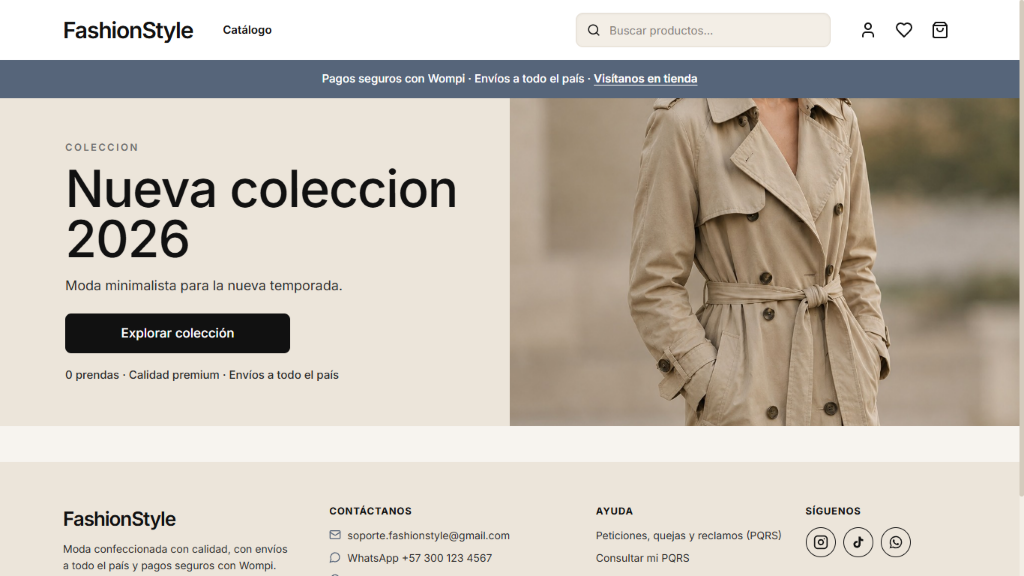
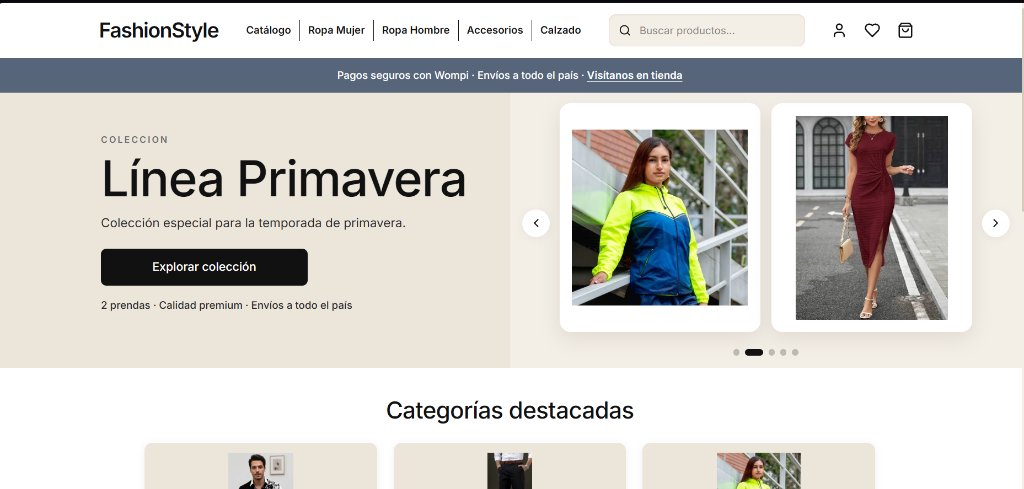
Actualizar captura de app móvil, página principal e integrar enlace en vivo de Fashion Style

diff --git a/index.html b/index.html
@@ -118,6 +118,10 @@
         <p class="section-desc">
           Proyecto integral de software en el que <strong>estoy trabajando actualmente</strong> para gestionar la operación de una empresa de confección y tienda de ropa: escaparate virtual, punto de venta físico (POS), producción por lista de materiales (BOM), inventario/kárdex, facturación, pagos con Wompi y aplicación móvil Android conectados en tiempo real.
         </p>
+        <div class="project-live-bar">
+          <a href="https://fashionstylegrupo3.github.io/FashionStyleDist/" target="_blank" rel="noopener noreferrer" class="btn btn-primary btn-sm">Abrir Página Web en Vivo ↗</a>
+          <a href="https://github.com/tzun95168-star/FashionStyle" target="_blank" rel="noopener noreferrer" class="btn btn-secondary btn-sm">Ver Código del Proyecto (GitHub)</a>
+        </div>
       </div>
 
       <!-- Architecture Tabs -->
@@ -150,6 +154,9 @@
             <span class="tech-pill">Bootstrap</span>
             <span class="tech-pill">Axios</span>
             <span class="tech-pill">Chart.js</span>
+          </div>
+          <div style="margin-top:16px;">
+            <a href="https://fashionstylegrupo3.github.io/FashionStyleDist/" target="_blank" rel="noopener noreferrer" class="btn btn-primary btn-sm">Visitar Tienda Fashion Style en Vivo ↗</a>
           </div>
         </div>
         <div class="panel-preview" data-lightbox="./assets/img/fs_dashboard.png" data-caption="Panel Administrativo Fashion Style (en desarrollo activo) — KPIs en vivo, ventas POS/Web y exportación Excel/PDF">
@@ -212,9 +219,9 @@
             <span class="tech-pill">APK Android</span>
           </div>
         </div>
-        <div class="panel-preview" data-lightbox="./assets/img/fs_facturacion.png" data-caption="Facturación Automática Omnicanal — Trazabilidad unificada de ventas POS y pedidos online con descarga PDF">
-          <img src="./assets/img/fs_facturacion.png" alt="Facturación omnicanal Fashion Style" />
-          <div class="panel-preview-caption">Clic para ampliar · Facturación Omnicanal (Pedidos Online + Ventas POS)</div>
+        <div class="panel-preview panel-preview--mobile" data-lightbox="./assets/img/fs_app_movil.png?v=2" data-caption="Aplicación Móvil Android Fashion Style (Flutter 3 + Dart) — Escaparate Neo-Atelier, colecciones, categorías y prendas destacadas">
+          <img src="./assets/img/fs_app_movil.png?v=2" alt="Aplicación Móvil Android Fashion Style" />
+          <div class="panel-preview-caption">Clic para ampliar · App Móvil Android (Flutter 3 + Dart)</div>
         </div>
       </div>
 
@@ -254,11 +261,19 @@
         </div>
 
         <div class="gallery-grid">
-          <div class="gallery-card" data-lightbox="./assets/img/fs_landing.png" data-caption="Escaparate E-Commerce Fashion Style — Diseño editorial minimalista, búsqueda y navegación de colecciones">
-            <img src="./assets/img/fs_landing.png" alt="Landing Page Fashion Style" />
+          <div class="gallery-card" data-lightbox="./assets/img/fs_landing.png?v=2" data-caption="Página Principal Fashion Style — Colecciones de temporada, buscador, categorías destacadas y pagos con Wompi">
+            <img src="./assets/img/fs_landing.png?v=2" alt="Página Principal Fashion Style" />
             <div class="gallery-card-meta">
-              <strong>Tienda Virtual (Landing)</strong>
-              <span>Escaparate minimalista en Vue 3 + Tailwind</span>
+              <strong>Página Principal (Tienda Web)</strong>
+              <span>Escaparate principal en Vue 3 + Tailwind</span>
+            </div>
+          </div>
+
+          <div class="gallery-card gallery-card--mobile" data-lightbox="./assets/img/fs_app_movil.png?v=2" data-caption="Aplicación Móvil Android Fashion Style — Interfaz móvil propia con navegación por gestos y catálogo conectado a la API">
+            <img src="./assets/img/fs_app_movil.png?v=2" alt="Aplicación Móvil Fashion Style" />
+            <div class="gallery-card-meta">
+              <strong>App Móvil Android</strong>
+              <span>Interfaz nativa en Flutter 3 + Dart</span>
             </div>
           </div>
 
@@ -293,18 +308,11 @@
               <span>Webhooks, PSE, Nequi y reserva de stock</span>
             </div>
           </div>
-
-          <div class="gallery-card" data-lightbox="./assets/img/fs_bd.png" data-caption="Arquitectura de Datos — 38 tablas normalizadas en MySQL 8.0 InnoDB">
-            <img src="./assets/img/fs_bd.png" alt="Diseño Base de Datos" />
-            <div class="gallery-card-meta">
-              <strong>Base de Datos Relacional</strong>
-              <span>38 tablas normalizadas en MySQL 8.0</span>
-            </div>
-          </div>
         </div>
 
         <div class="repo-bar">
-          <a href="https://github.com/tzun95168-star/FashionStyle" target="_blank" rel="noopener noreferrer" class="btn btn-primary btn-sm">Ver Repositorio Completo (Fashion Style)</a>
+          <a href="https://fashionstylegrupo3.github.io/FashionStyleDist/" target="_blank" rel="noopener noreferrer" class="btn btn-primary btn-sm">Abrir Página Web en Vivo ↗</a>
+          <a href="https://github.com/tzun95168-star/FashionStyle" target="_blank" rel="noopener noreferrer" class="btn btn-secondary btn-sm">Repositorio Completo (GitHub)</a>
           <a href="https://github.com/tzun95168-star/FashionStyle/tree/main/backend" target="_blank" rel="noopener noreferrer" class="btn btn-secondary btn-sm">Backend Laravel</a>
           <a href="https://github.com/tzun95168-star/FashionStyle/tree/main/frontend" target="_blank" rel="noopener noreferrer" class="btn btn-secondary btn-sm">Frontend Vue 3</a>
           <a href="https://github.com/tzun95168-star/FashionStyle/tree/main/mobile-app" target="_blank" rel="noopener noreferrer" class="btn btn-secondary btn-sm">App Móvil Flutter</a>

diff --git a/styles.css b/styles.css
@@ -598,6 +598,29 @@ img {
   transform: scale(1.03);
 }
 
+.panel-preview--mobile img {
+  height: 350px;
+  object-fit: contain;
+  object-position: center;
+  padding: 10px;
+  background: radial-gradient(circle at 50% 45%, #1e293b 0%, #090e1a 100%);
+}
+
+.gallery-card--mobile img {
+  object-fit: contain;
+  object-position: center;
+  padding: 6px;
+  background: radial-gradient(circle at 50% 45%, #1e293b 0%, #090e1a 100%);
+}
+
+.project-live-bar {
+  margin-top: 18px;
+  display: flex;
+  flex-wrap: wrap;
+  align-items: center;
+  gap: 12px;
+}
+
 .panel-preview-caption {
   padding: 10px 14px;
   font-size: 0.8rem;
